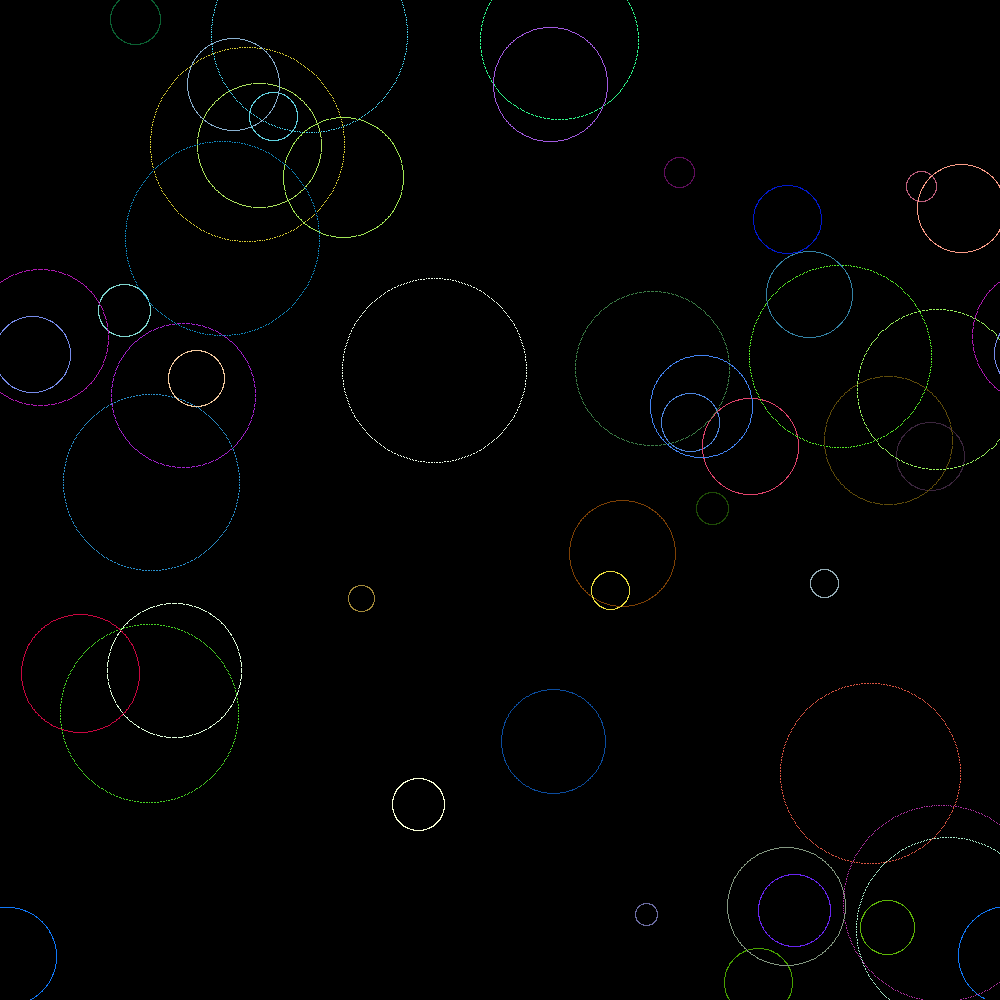
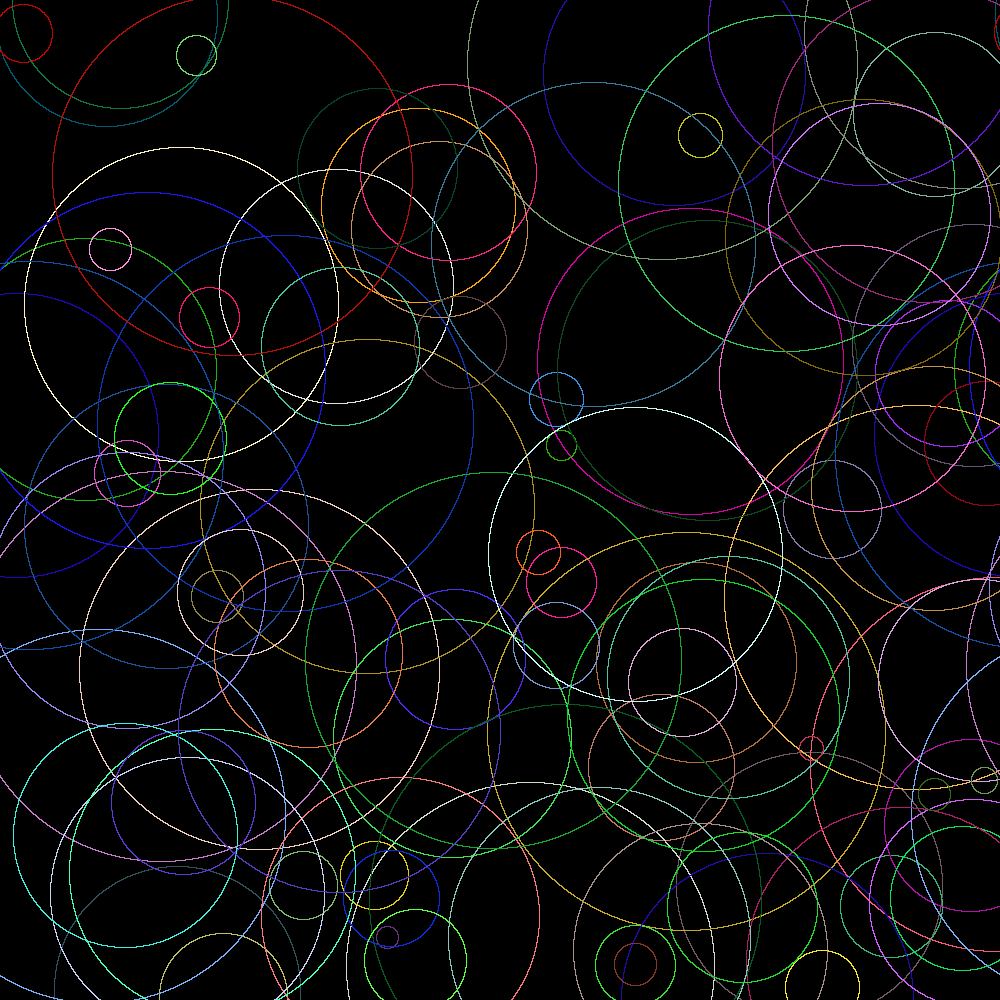
fix the espace between the pixells

diff --git a/src/geometrical_shapes.rs b/src/geometrical_shapes.rs
@@ -126,19 +126,19 @@ impl Circle {
     pub fn random(width: i32, height: i32) -> Self {
         let mut rng = rand::thread_rng();
         let center = Point::new(rng.gen_range(0..width), rng.gen_range(0..height));
-        let radius = rng.gen_range(10..100); // Random radius between 10 and 100
+        let radius = rng.gen_range(10..200);
         Circle::new(center, radius)
     }
 }
 impl Drawable for Circle {
     fn draw(&self, image: &mut Image) {
-        let steps: i32 = 360;
+        let mut steps: i32 = 360;
+        steps = steps.pow(2);
         let color = Circle::random_color();
-        for i in 0..360 {
+        for i in 0..steps {
             let theta = ((i as f64) * 2.0 * std::f64::consts::PI) / (steps as f64);
             let x = (self.center.x as f64) + (self.radius as f64) * theta.cos();
             let y = (self.center.y as f64) + (self.radius as f64) * theta.sin();
-            // let color = Cir
             let _ = image.set_pixel(x.round() as i32, y.round() as i32, color.clone());
         }
     }

diff --git a/src/main.rs b/src/main.rs
@@ -21,7 +21,7 @@ fn main() {
     // );
     // triangle.draw(&mut image);
 
-    for _ in 1..50 {
+    for _ in 1..100 {
         gs::Circle::random(image.width, image.height).draw(&mut image);
     }
 
